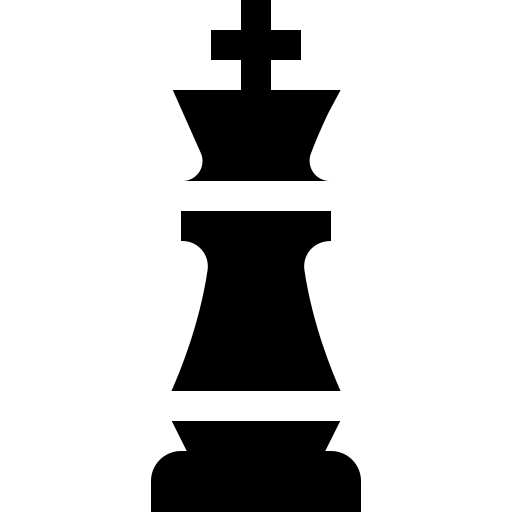
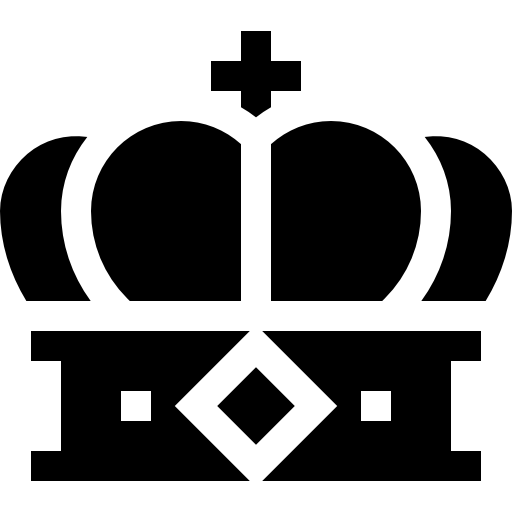
Fix the board and add functions to determine valid moves. Refactor 'Chess Piece' class

diff --git a/GUI/ChessPieces/ChessPieces.h b/GUI/ChessPieces/ChessPieces.h
@@ -7,6 +7,9 @@
 #include <QMainWindow>
 #include <QPushButton>
 #include <cmath>
+#include <vector>
+
+constexpr int BOARD_SIZE = 8;
 
 enum class PieceColor { White, Black };
 
@@ -26,7 +29,9 @@ class ChessPiece : public QPushButton {
     }
     virtual ~ChessPiece() {}
 
-    virtual bool isMoveValid(int newRow, int newCol) = 0;
+    virtual std::vector<std::pair<int, int>> getvalidMovesVector(
+        const std::vector<std::vector<ChessPiece*>>& board, int row, int col
+    ) = 0;
     virtual QIcon getIcon() const = 0;
 
     int getCurrentRow() const { return currentRow; }
@@ -44,11 +49,11 @@ class Rook : public ChessPiece {
         setIcon(getIcon());
     }
 
-    bool isMoveValid(int newRow, int newCol) override {
-        int rowDiff = newRow - getCurrentRow();
-        int colDiff = newCol - getCurrentCol();
-
-        return (rowDiff == 0 && colDiff != 0) || (rowDiff != 0 && colDiff == 0);
+    std::vector<std::pair<int, int>> getvalidMovesVector(
+        const std::vector<std::vector<ChessPiece*>>& board, int row, int col
+    ) override {
+        std::vector<std::pair<int, int>> validMoves;
+        return validMoves;
     }
 
     QIcon getIcon() const override {
@@ -70,11 +75,12 @@ class Knight : public ChessPiece {
         setIcon(getIcon());
     }
 
-    bool isMoveValid(int newRow, int newCol) override {
-        int rowDiff = abs(newRow - getCurrentRow());
-        int colDiff = abs(newCol - getCurrentCol());
+    std::vector<std::pair<int, int>> getvalidMovesVector(
+        const std::vector<std::vector<ChessPiece*>>& board, int row, int col
+    ) override {
+        std::vector<std::pair<int, int>> validMoves;
 
-        return (rowDiff == 2 && colDiff == 1) || (rowDiff == 1 && colDiff == 2);
+        return validMoves;
     }
 
     QIcon getIcon() const override {
@@ -96,11 +102,11 @@ class Bishop : public ChessPiece {
         setIcon(getIcon());
     }
 
-    bool isMoveValid(int newRow, int newCol) override {
-        int rowDiff = abs(newRow - getCurrentRow());
-        int colDiff = abs(newCol - getCurrentCol());
-
-        return rowDiff == colDiff;
+    std::vector<std::pair<int, int>> getvalidMovesVector(
+        const std::vector<std::vector<ChessPiece*>>& board, int row, int col
+    ) override {
+        std::vector<std::pair<int, int>> validMoves;
+        return validMoves;
     }
 
     QIcon getIcon() const override {
@@ -122,12 +128,11 @@ class Queen : public ChessPiece {
         setIcon(getIcon());
     }
 
-    bool isMoveValid(int newRow, int newCol) override {
-        int rowDiff = abs(newRow - getCurrentRow());
-        int colDiff = abs(newCol - getCurrentCol());
-
-        return (rowDiff == 0 && colDiff != 0) || (rowDiff != 0 && colDiff == 0) ||
-               (rowDiff == colDiff);
+    std::vector<std::pair<int, int>> getvalidMovesVector(
+        const std::vector<std::vector<ChessPiece*>>& board, int row, int col
+    ) override {
+        std::vector<std::pair<int, int>> validMoves;
+        return validMoves;
     }
 
     QIcon getIcon() const override {
@@ -149,11 +154,11 @@ class King : public ChessPiece {
         setIcon(getIcon());
     }
 
-    bool isMoveValid(int newRow, int newCol) override {
-        int rowDiff = abs(newRow - getCurrentRow());
-        int colDiff = abs(newCol - getCurrentCol());
-
-        return (rowDiff <= 1 && colDiff <= 1);
+    std::vector<std::pair<int, int>> getvalidMovesVector(
+        const std::vector<std::vector<ChessPiece*>>& board, int row, int col
+    ) override {
+        std::vector<std::pair<int, int>> validMoves;
+        return validMoves;
     }
 
     QIcon getIcon() const override {
@@ -175,16 +180,56 @@ class Pawn : public ChessPiece {
         setIcon(getIcon());
     }
 
-    bool isMoveValid(int newRow, int newCol) override {
-        int rowDiff = newRow - getCurrentRow();
-        int colDiff = abs(newCol - getCurrentCol());
+    std::vector<std::pair<int, int>> getvalidMovesVector(
+        const std::vector<std::vector<ChessPiece*>>& board, int row, int col
+    ) override {
+        std::vector<std::pair<int, int>> validMoves;
 
-        // Depending on the pawn's color, it can move forward or backward.
-        if (getColor() == PieceColor::White) {
-            return (rowDiff == -1 && colDiff <= 1);
-        } else {
-            return (rowDiff == 1 && colDiff <= 1);
+        for (int colIndex = col - 1; colIndex >= 0; colIndex--) {
+            if (!board[row][colIndex]) {
+                validMoves.push_back({row, colIndex});
+            } else if (board[row][colIndex]->getColor() != this->getColor()) {
+                validMoves.push_back({row, colIndex});
+                break;
+            } else {
+                break;
+            }
         }
+
+        for (int colIndex = col + 1; colIndex < BOARD_SIZE; colIndex++) {
+            if (!board[row][colIndex]) {
+                validMoves.push_back({row, colIndex});
+            } else if (board[row][colIndex]->getColor() != this->getColor()) {
+                validMoves.push_back({row, colIndex});
+                break;
+            } else {
+                break;
+            }
+        }
+
+        for (int rowIndex = row - 1; rowIndex >= 0; rowIndex--) {
+            if (!board[rowIndex][col]) {
+                validMoves.push_back({rowIndex, col});
+            } else if (board[rowIndex][col]->getColor() != this->getColor()) {
+                validMoves.push_back({rowIndex, col});
+                break;
+            } else {
+                break;
+            }
+        }
+
+        for (int rowIndex = row + 1; rowIndex < BOARD_SIZE; rowIndex++) {
+            if (!board[rowIndex][col]) {
+                validMoves.push_back({rowIndex, col});
+            } else if (board[rowIndex][col]->getColor() != this->getColor()) {
+                validMoves.push_back({rowIndex, col});
+                break;
+            } else {
+                break;
+            }
+        }
+
+        return validMoves;
     }
 
     QIcon getIcon() const override {

diff --git a/GUI/ChessBoard/ChessBoard.cpp b/GUI/ChessBoard/ChessBoard.cpp
@@ -1,4 +1,5 @@
 #include "ChessBoard.h"
+#define CELL_SIZE 60
 
 void ChessBoard::initializeChessPieces(int row, int col) {
     ChessPiece* piece = nullptr;
@@ -33,21 +34,25 @@ void ChessBoard::cleanupChessPieces() {
 }
 
 void ChessBoard::setupChessBoard() {
-    QWidget* centralWidget = new QWidget(this);
-    setCentralWidget(centralWidget);
+    setFixedSize(900, 800);
 
-    QGridLayout* gridLayout = new QGridLayout(centralWidget);
+    QWidget* gridWidget = new QWidget(this);
+    gridWidget->setFixedSize(CELL_SIZE * BOARD_SIZE, CELL_SIZE * BOARD_SIZE);
+
+    gridLayout = new QGridLayout(gridWidget);
     board.resize(BOARD_SIZE, std::vector<ChessPiece*>(BOARD_SIZE, nullptr));
+    validMoves.resize(21, std::pair<int, int>({-1, -1}));
+    selectedPiece = nullptr;
 
     for (int row = 0; row < BOARD_SIZE; row++) {
         for (int col = 0; col < BOARD_SIZE; col++) {
             initializeChessPieces(row, col);
-            QPushButton* square = new QPushButton(this);
-            square->setFixedSize(50, 50);
+            QPushButton* square = new QPushButton(gridWidget);
+            square->setFixedSize(CELL_SIZE, CELL_SIZE);
             if ((row + col) % 2 != 0) {
                 square->setStyleSheet(
                     "QPushButton {"
-                    "   background-color: rgba(255, 0, 0, 128);"
+                    "   background-color: #AFABAB;"
                     "   border: none;"
                     "}"
                     "QPushButton:hover {"
@@ -55,13 +60,31 @@ void ChessBoard::setupChessBoard() {
                     "}"
                 );
             }
-            connect(square, &QPushButton::clicked, this, &ChessBoard::squareClicked);
             if (board[row][col] != nullptr) {
                 square->setIcon(board[row][col]->getIcon());
+            } else {
+                square->setEnabled(false);
             }
+            connect(square, &QPushButton::clicked, this, [this, row, col]() {
+                squareClicked(row, col);
+            });
             gridLayout->addWidget(square, row, col);
         }
     }
+
+    setCentralWidget(gridWidget);
+
+    QFont wordFont;
+    wordFont.setFamily("Cambria Math");
+    wordFont.setStyle(QFont::StyleNormal);
+    wordFont.setWeight(QFont::Normal);
+    wordFont.setPointSize(20);
+
+    turnLabel = new QLabel(this);
+    turnLabel->setGeometry(CELL_SIZE * BOARD_SIZE + 20, 30, 150, 30);
+    turnLabel->setFont(wordFont);
+    turnLabel->setAlignment(Qt::AlignCenter);
+    turnLabel->setText(currentPlayer ? "White's turn!" : "Black's turn!");
 
     currentPlayer = true;  // Assuming white starts
     selectedPiece = nullptr;
@@ -72,49 +95,40 @@ void ChessBoard::resetChessBoard() {
     setupChessBoard();
 }
 
-void ChessBoard::squareClicked() {
-    QPushButton* clickedSquare = qobject_cast<QPushButton*>(sender());
-
-    int row, col;
-    for (row = 0; row < BOARD_SIZE; row++) {
-        for (col = 0; col < BOARD_SIZE; col++) {
-            if (board[row][col] == clickedSquare) {
-                break;  // Found the square
-            }
-        }
-        if (col < BOARD_SIZE) {
-            break;  // Found the square
-        }
-    }
-
+void ChessBoard::squareClicked(int row, int col) {
     ChessPiece* clickedPiece = board[row][col];
 
-    if (selectedPiece == nullptr) {
-        if (clickedPiece != nullptr &&
-            (clickedPiece->getColor() == PieceColor::White ? true : false) ==
-                currentPlayer) {
-            selectedPiece = clickedPiece;
+    if (selectedPiece == clickedPiece) {
+        for (std::pair<int, int> move : validMoves) {
+            QPushButton* square = new QPushButton(this);
+            square->setFixedSize(CELL_SIZE, CELL_SIZE);
+            if ((move.first + move.second) % 2 != 0) {
+                square->setStyleSheet(
+                    "QPushButton {"
+                    "   background-color: #AFABAB;"
+                    "   border: none;"
+                    "}"
+                    "QPushButton:hover {"
+                    "   background-color: rgba(0, 0, 0, 0.2);"
+                    "}"
+                );
+            }
+            gridLayout->addWidget(square, move.first, move.second);
         }
-    } else {
-        if (selectedPiece->isMoveValid(row, col)) {
-            // If the move is valid, perform the move
+        validMoves.clear();
+        return;
+    }
 
-            // Update the board: move the selected piece to the new position
-            board[selectedPiece->getCurrentRow()][selectedPiece->getCurrentCol()] =
-                nullptr;
-            board[row][col] = selectedPiece;
-
-            // Update the graphical representation of the board
-            updateBoardGUI();
-
-            // Deselect the piece
-            selectedPiece = nullptr;
-
-            // Switch the current player's turn
-            currentPlayer = !currentPlayer;
-        } else {
-            // The move is invalid; deselect the piece
-            selectedPiece = nullptr;
+    selectedPiece = clickedPiece;
+    validMoves = selectedPiece->getvalidMovesVector(board, row, col);
+    for (std::pair<int, int> move : validMoves) {
+        QLayoutItem* item = gridLayout->itemAtPosition(move.first, move.second);
+        if (item && item->widget()) {
+            item->widget()->setStyleSheet(
+                "background-color: #A9D18E;"
+                "border: none;"
+            );
+            gridLayout->addWidget(item->widget(), move.first, move.second);
         }
     }
 }

diff --git a/GUI/ChessBoard/ChessBoard.h b/GUI/ChessBoard/ChessBoard.h
@@ -1,23 +1,24 @@
 #ifndef CHESS_BOARD_H
 #define CHESS_BOARD_H
 
-#include <vector>
+#include <QLabel>
 
 #include "../../GUI/ChessPieces/ChessPieces.h"
-
-constexpr int BOARD_SIZE = 8;
 
 class ChessBoard : public QMainWindow {
    public:
     ChessBoard(QWidget* parent = nullptr) : QMainWindow(parent) { setupChessBoard(); }
 
    public slots:
-    void squareClicked();
+    void squareClicked(int row, int col);
 
    private:
+    QGridLayout* gridLayout;
     ChessPiece* selectedPiece;
+    QLabel* turnLabel;
     std::vector<std::vector<ChessPiece*>> board;
     bool currentPlayer;  // true for White, false for Black
+    std::vector<std::pair<int, int>> validMoves;
 
     void initializeChessPieces(int row, int col);
     void setupChessBoard();
